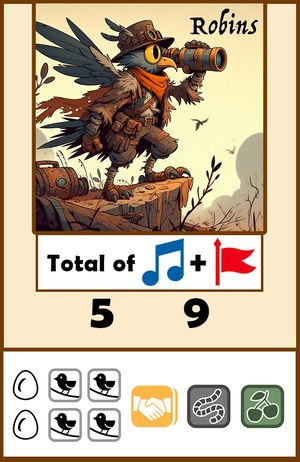
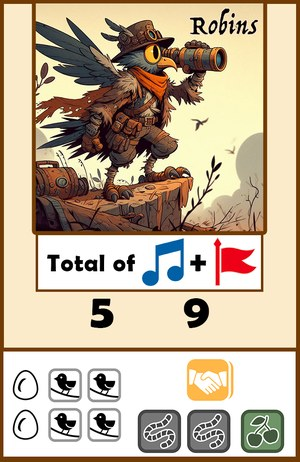
Objectifs recommandés : Robins +1 ver, images mises à jour
Robins : +1 Poussin, 1 case des Anciens, 2 vers, 1 fruit. Les 10 images
fournies remplacent les précédentes. Simulé : objectifs entre 47,8 % et
51,8 %, combinaisons toutes différentes, 6 graines = 6 fruits.

Claude-Session: https://claude.ai/code/session_01SHozX3c8M4YpEYtpfERQFN

Changed region(s): [[0.42, 0.7576, 0.96, 1.0]]

diff --git a/index.html b/index.html
@@ -320,15 +320,15 @@ small.onl{color:#1f8a8a;font-weight:600}
 <div id="zoom"></div>
 <div id="modal"></div>
 <div id="aide" style="position:fixed;inset:0;background:#0007;display:none;align-items:center;justify-content:center;z-index:70;cursor:pointer" onclick="this.style.display='none'"><img src="aide.jpg" alt="Aide de jeu" style="max-height:92vh;max-width:92vw;border-radius:12px"></div>
-<script src="data.js?v=1795272000"></script>
-<script src="content.js?v=1795272000"></script>
-<script src="engine.js?v=1795272000"></script>
-<script src="cards.js?v=1795272000"></script>
-<script src="i18n_it.js?v=1795272000"></script>
-<script src="i18n.js?v=1795272000"></script>
-<script src="stats.js?v=1795272000"></script>
-<script src="peerdb.js?v=1795272000"></script>
-<script src="ui.js?v=1795272000"></script>
+<script src="data.js?v=1795273000"></script>
+<script src="content.js?v=1795273000"></script>
+<script src="engine.js?v=1795273000"></script>
+<script src="cards.js?v=1795273000"></script>
+<script src="i18n_it.js?v=1795273000"></script>
+<script src="i18n.js?v=1795273000"></script>
+<script src="stats.js?v=1795273000"></script>
+<script src="peerdb.js?v=1795273000"></script>
+<script src="ui.js?v=1795273000"></script>
 <script>document.getElementById("statsbtn").onclick=document.getElementById("statsbtn2").onclick=()=>BirdsStatsUI.open();
 {const h=document.getElementById("homebtn"); let armed=null;
  h.onclick=()=>{ if(armed){location.reload(); return;} armed=setTimeout(()=>{armed=null; h.textContent=h.dataset.t; h.title=""; h.classList.remove("warn");},3000); h.dataset.t=h.textContent; const lg=window.I18N?I18N.lang:"fr"; h.textContent="Quitter ? ✓"; h.title=({en:"Click again to quit the game and go back home",it:"Clicca di nuovo per uscire dalla partita e tornare alla home"})[lg]||"Cliquez encore pour quitter la partie et revenir à l'accueil"; h.classList.add("warn");};}

diff --git a/engine.js b/engine.js
@@ -39,7 +39,7 @@ const BLUE_OBJ=[
   {id:'C06',name:'Experienced Watchers',fr:'Poussins dans des régions avec Ruine',p2:[5,6],p34:[5,5,5,5],m:(g,p)=>g.B.regions.filter(r=>r.ruins.length).reduce((n,r)=>n+g.chicksIn(r.id,p.i),0)},
 ];
 const PERSONAL=[
-  {id:'A01',name:'Robins',tags:['Academy','Legion'],res:{worm:1,seed:1,fruit:1},resNew:{chick:1,elders:1,worm:1,fruit:1}},
+  {id:'A01',name:'Robins',tags:['Academy','Legion'],res:{worm:1,seed:1,fruit:1},resNew:{chick:1,elders:1,worm:2,fruit:1}},
   {id:'A02',name:'Swans',tags:['Academy','Court'],res:{seagull:1,worm:3},resNew:{seagull:1,chick:-1,worm:1}},
   {id:'A03',name:'Storks',tags:['Academy','Guild'],res:{worm:2,seed:1},resNew:{chick:-1,seed:2,elders:1,worm:1,rune:1}},
   {id:'A04',name:'Ravens',tags:['Academy','Circle'],res:{elders:1,worm:1,fruit:1},resNew:{seed:1,worm:1,fruit:1,rune:1}},

diff --git a/NOTES_PROJET.md b/NOTES_PROJET.md
@@ -76,7 +76,7 @@ Recommandés — tous les joueurs commencent avec 2 Œufs et 3 Poussins ; l'obje
 
 | Objectif | Tags | Départ |
 |---|---|---|
-| Robins | Academy + Legion | +1 Poussin, 1 Ancien, 1 ver, 1 fruit |
+| Robins | Academy + Legion | +1 Poussin, 1 Ancien, 2 vers, 1 fruit |
 | Swans | Academy + Court | Mouette, −1 Poussin, 1 ver |
 | Storks | Academy + Guild | −1 Poussin, 2 graines, 1 Ancien, 1 ver, 1 Rune |
 | Ravens | Academy + Circle | 1 graine, 1 ver, 1 fruit, 1 Rune |
@@ -87,8 +87,8 @@ Recommandés — tous les joueurs commencent avec 2 Œufs et 3 Poussins ; l'obje
 | Owls | Court + Circle | 2 vers, 1 graine, 1 fruit |
 | Magpies | Guild + Circle | +1 Poussin, 1 Ancien, 3 vers (sans Mouette) |
 
-Contraintes respectées : même total qu'avant (32 ressources, un Poussin compté comme 3 nourritures), autant de graines que de fruits (6 et 6). Totaux : 14 vers, 6 graines, 6 fruits, 2 Mouettes, 5 Anciens, 3 Runes, Poussins +3 / −3. Magpies a perdu sa Mouette (une Mouette vaut environ 4 nourritures, surtout grâce à ses améliorations : +12,1 pts, contre +5,4 pts si elle reste bloquée au niveau 1).
-Résultat (18 000 parties IA contre IA à 2 joueurs) : chaque objectif gagne entre 47,6 % et 51,8 % quand il est choisi (avant : 42 % à 62 %). L'écran de choix affiche aussi la ligne « Départ ».
+Contraintes respectées : même total qu'avant (32 ressources, un Poussin compté comme 3 nourritures), autant de graines que de fruits (6 et 6). Totaux : 16 vers, 6 graines, 6 fruits, 2 Mouettes, 6 Anciens, 3 Runes, Poussins +3 / −3. Les 10 combinaisons sont toutes différentes. Magpies a perdu sa Mouette (une Mouette vaut environ 4 nourritures, surtout grâce à ses améliorations : +12,1 pts, contre +5,4 pts si elle reste bloquée au niveau 1).
+Résultat (14 000 parties IA contre IA à 2 joueurs, version finale) : chaque objectif gagne entre 47,8 % et 51,8 % quand il est choisi (objectifs classiques : 42 % à 62 %). L'écran de choix affiche aussi la ligne « Départ ».
 
 Valeur mesurée d'une ressource ajoutée au départ (gain de victoire, 2 joueurs) : Mouette +12,5 pts ; graine +4,2 ; +1 Poussin +4,1 ; case des Anciens +3,5 ; ver +2,2 ; fruit +2,1 ; Rune +1,7 ; −1 Poussin −4,9. Ces valeurs ne s'additionnent qu'approximativement : l'équilibre final a été réglé par simulations successives. Outils : `train/` (non versionné) — `extra.js` (valeur d'une ressource), `pv_run.sh` (équilibre des objectifs).
 
